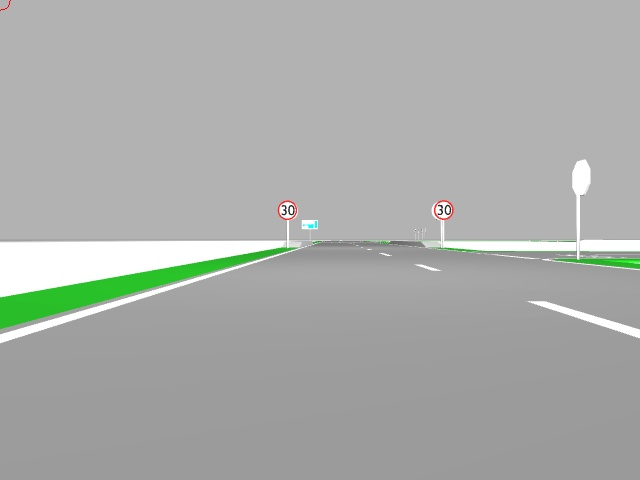
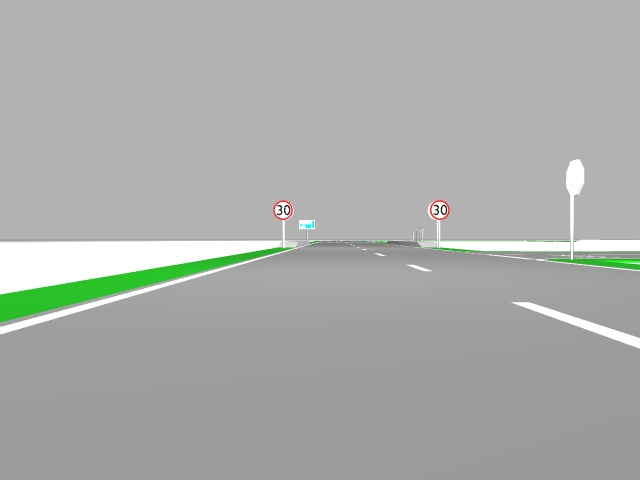
updated test_img.jpg, updated test1.launch so rviz launches correctly and robot spawns in better position

diff --git a/jow102_mmp/src/test1.cpp b/jow102_mmp/src/test1.cpp
@@ -6,11 +6,12 @@
 #include <opencv2/highgui/highgui.hpp>
 #include <image_transport/image_transport.h>
 #include <cv_bridge/cv_bridge.h>
-//#include <sensor_msgs/image_encodings.h>
+
+using namespace cv;
 
 static const std::string OPENCV_WINDOW = "Image window";
 cv_bridge::CvImagePtr cv_ptr;
-using namespace cv;
+
 
 void image_cb(const sensor_msgs::ImageConstPtr& msg)
 {
@@ -40,7 +41,7 @@ void image_cb(const sensor_msgs::ImageConstPtr& msg)
     imshow("Warped img", imgWarp);
     waitKey(3);
 
-    //cv::imwrite("/impacs/jow102/catkin_ws/src/jow102_mmp/test_img.jpg", cv_ptr->image); //save test image
+    imwrite("/impacs/jow102/catkin_ws/src/jow102_mmp/test_img.jpg", cv_ptr->image); //save test image
 }
 
 int main(int argc, char **argv) {
@@ -56,11 +57,11 @@ int main(int argc, char **argv) {
     image_transport::Publisher pub = it.advertise("/image_converter/output_video", 1);
     namedWindow(OPENCV_WINDOW);
 
-    //ros::spinOnce();
-    while(true){
+    ros::spinOnce();
+    /*while(true){
         ros::spinOnce();
         pub.publish(cv_ptr->toImageMsg());
-    }
+    }*/
     return 0;
 }
 
